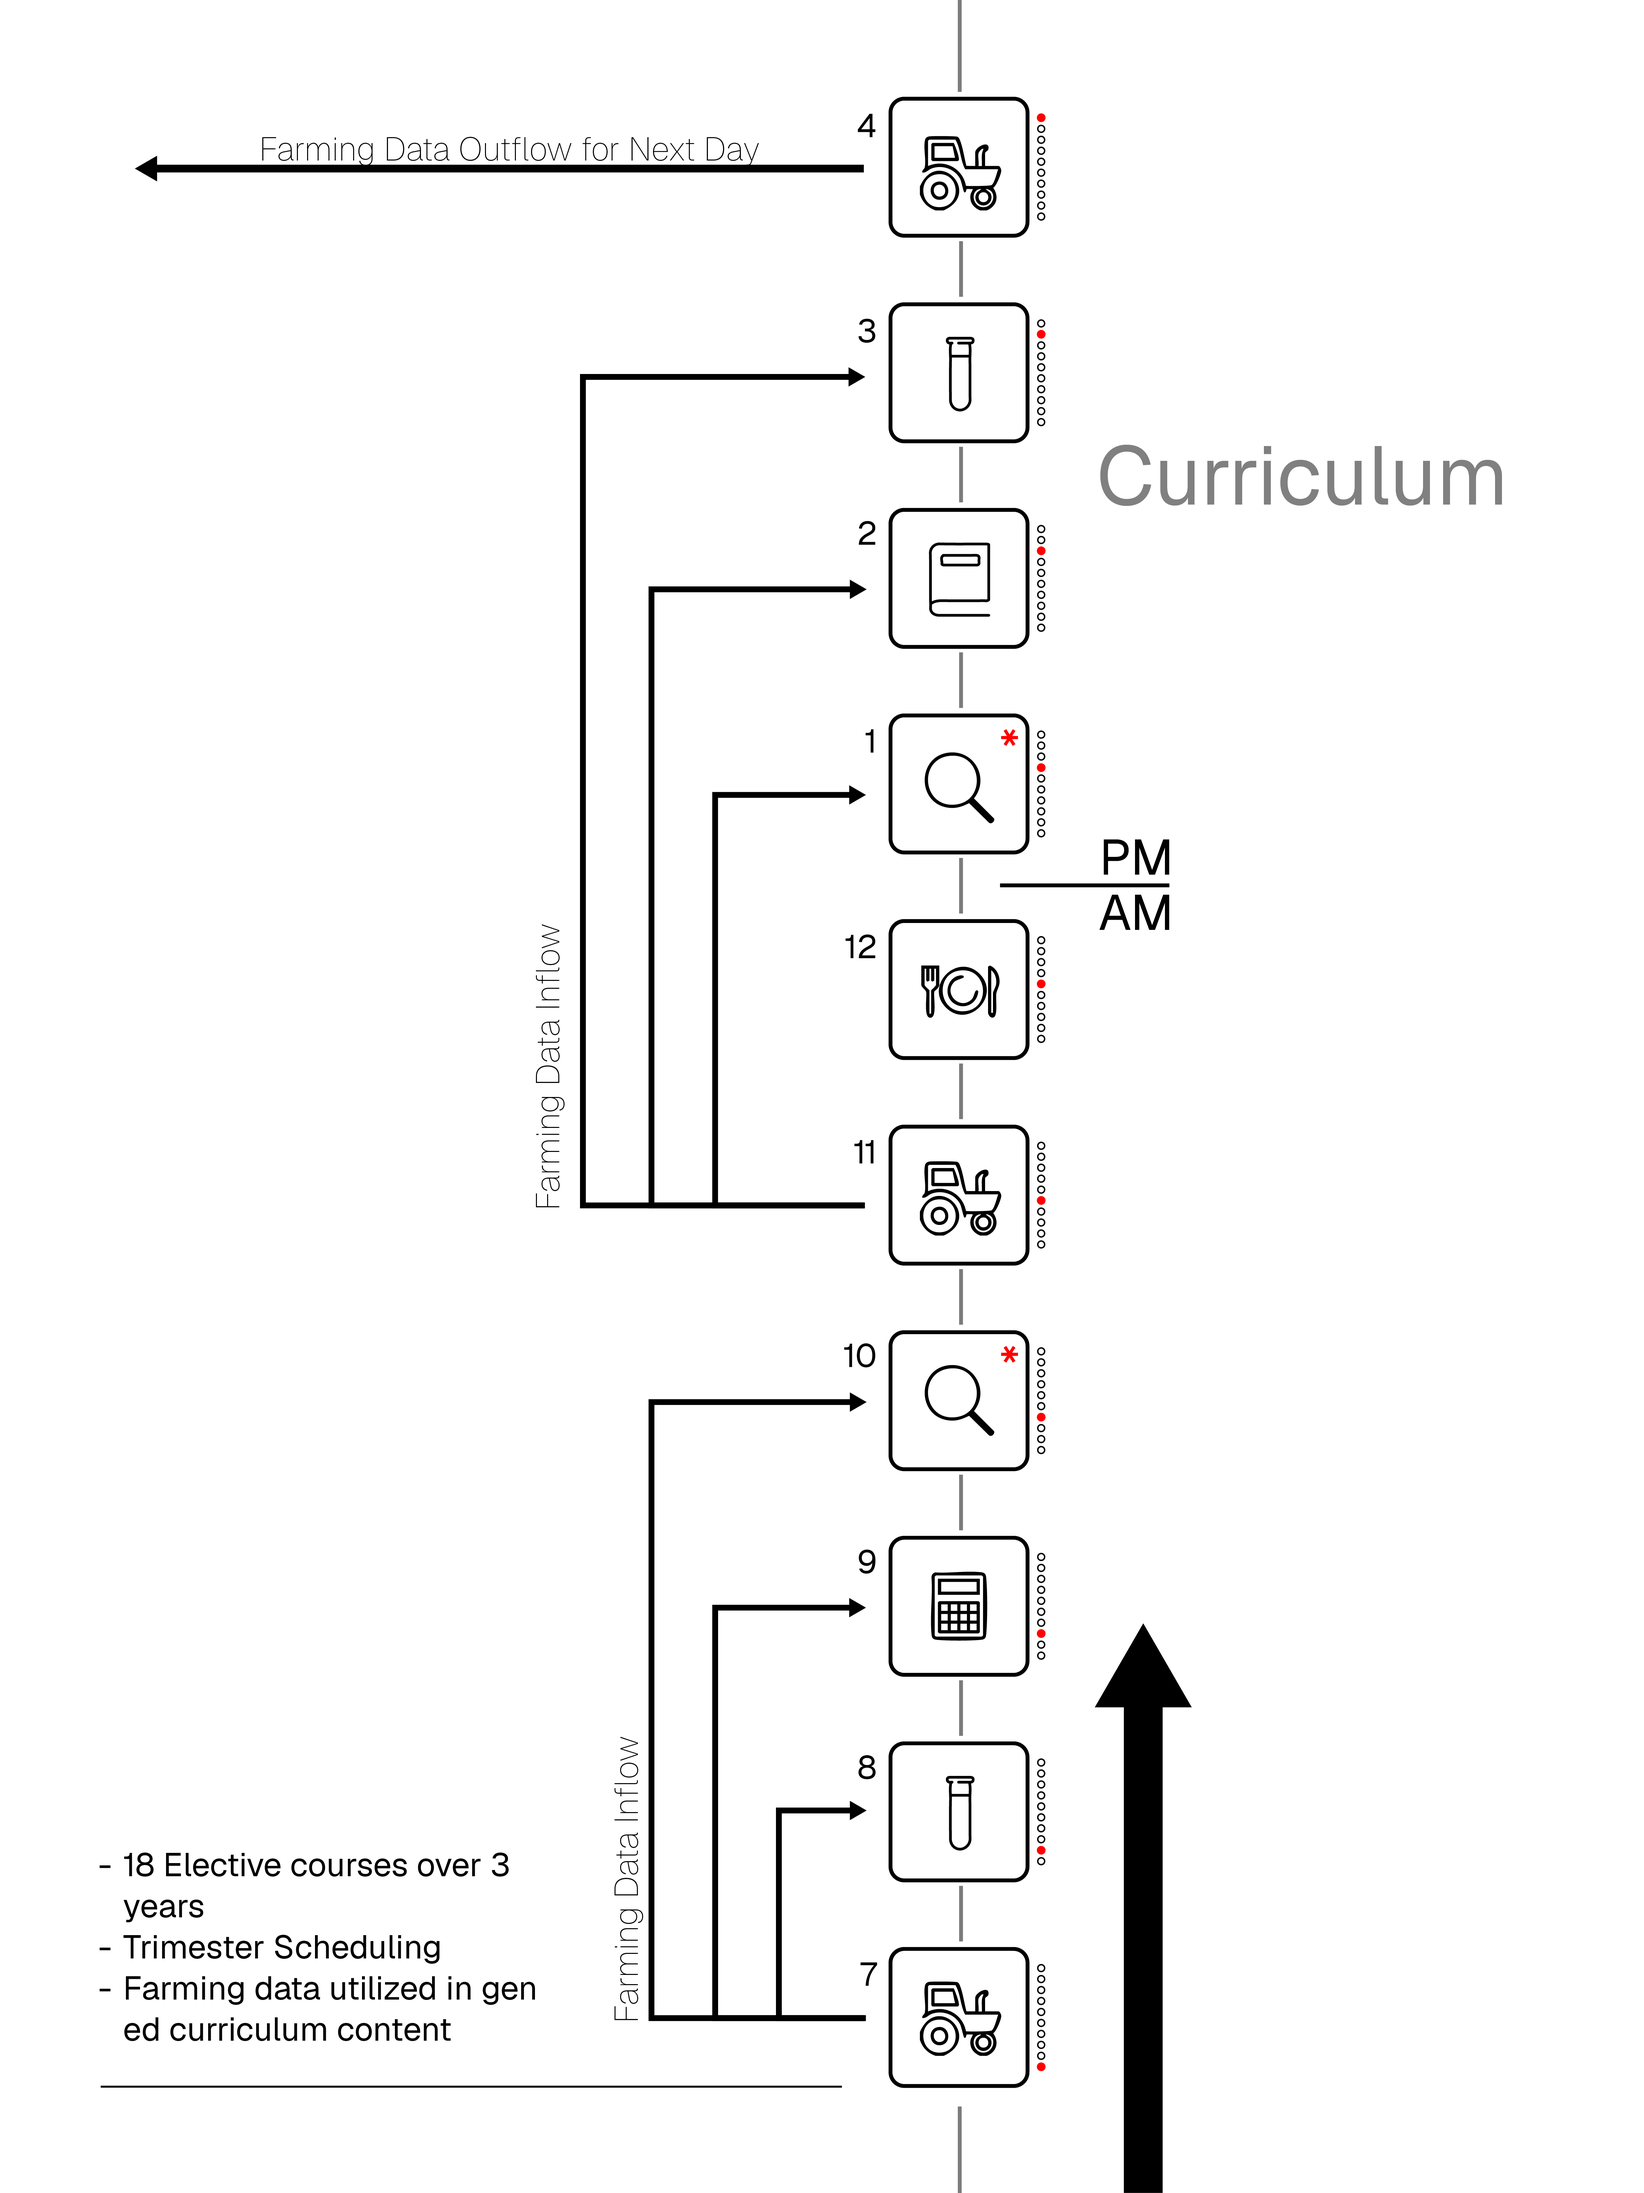
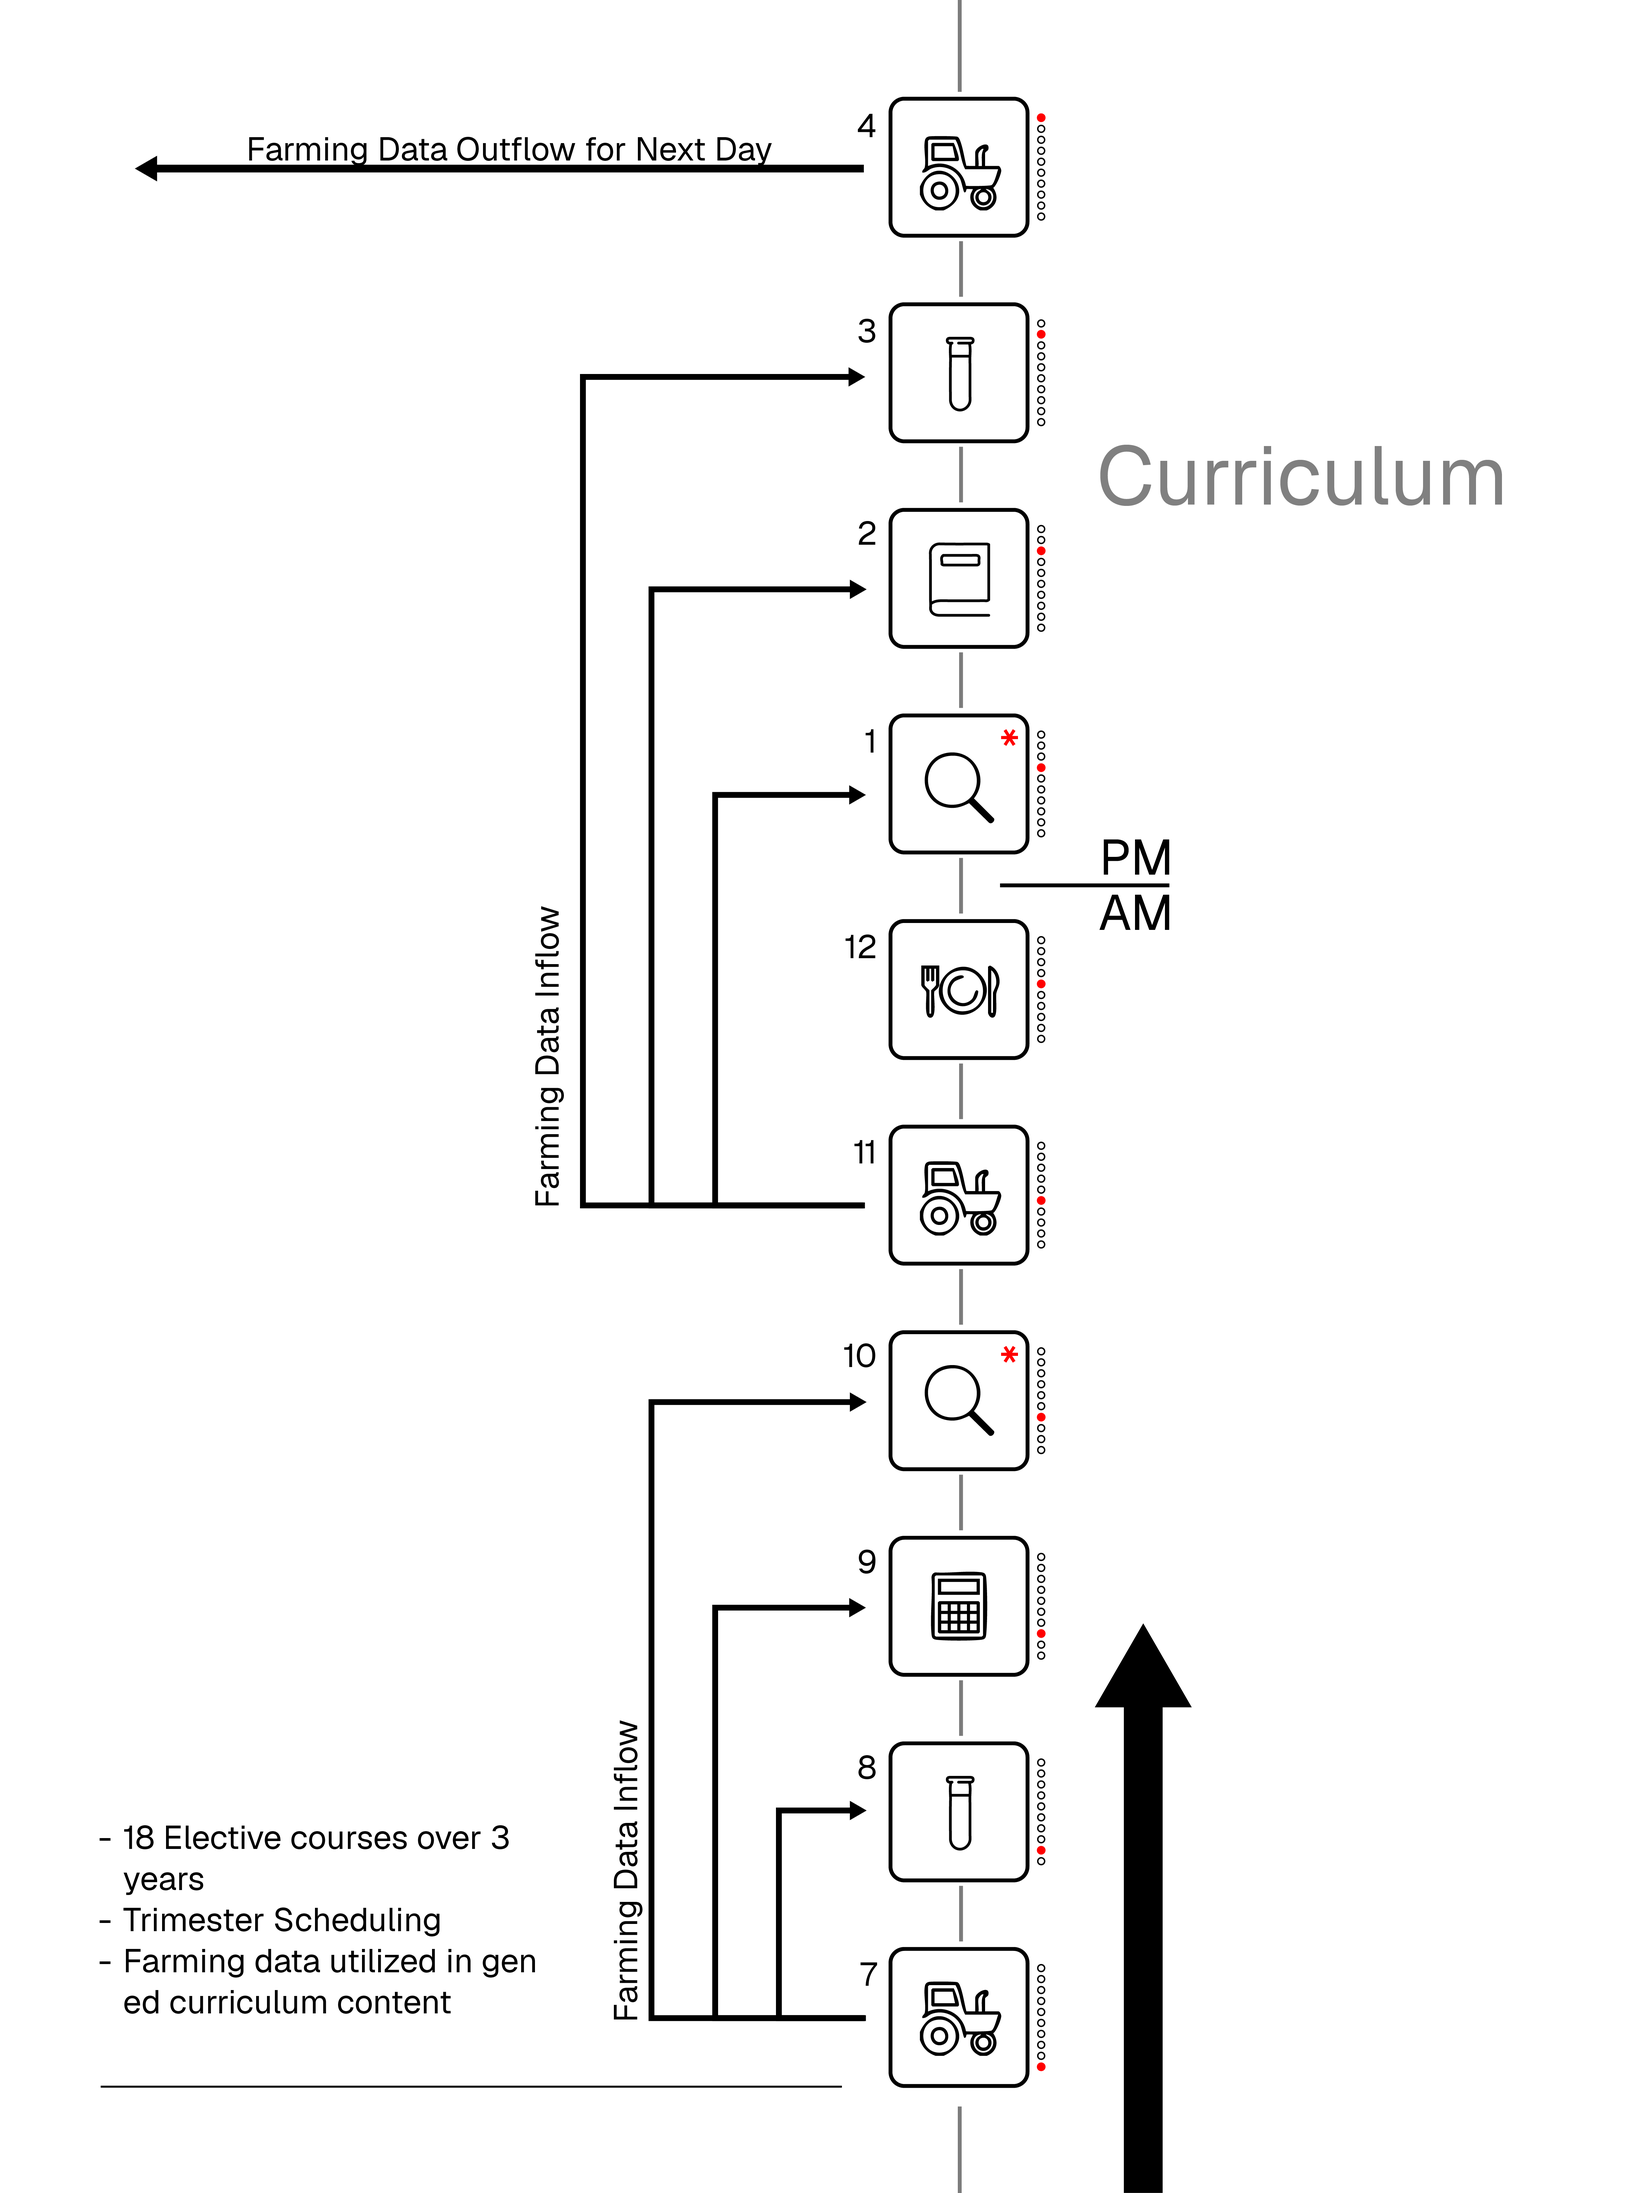
Photos and Layout Changes

diff --git a/projects/paper-as-functional-objects.html b/projects/paper-as-functional-objects.html
@@ -71,7 +71,6 @@
   <main>
     <div class="slider">
       <div class="slide-container">
-        <div class="slideEmpty" aria-hidden="true"></div>
         <div class="slideTitle">
           <h2>Paper Objects</h2>
           <h3d>This ongoing reseach project is investigating the viability of paper as a spatial material and visual aesthetic.</h3d>
@@ -79,22 +78,26 @@
         <div class="slideEmpty" aria-hidden="true"></div>
         <div class="slide">
           <img src="../images/paper/Wall_Panel_1.png" alt="Acoustic Wall Panel" class="slideimg"/>
-          <pCaption>Acoustic Wall Panel</pCaption>
+          <pCaption>Anechoic Wall Panel</pCaption>
         </div>
         <div class="slideEmpty" aria-hidden="true"></div>
         <div class="slide">
           <img src="../images/paper/Paper_Cast.png" alt="Cast Paper Panel, Unfinished" class="slideimg"/>
-          <pCaption>Cast Paper Anechoic Modules_Rough 24" x 32" x 2 1/4"</pCaption>
+          <pCaption>Cast Paper Anechoic Modules_Rough 24" x 32" x 2.25"</pCaption>
         </div>
         <div class="slideEmpty" aria-hidden="true"></div>
         <div class="slide">
           <img src="../images/paper/Mould1.png" alt="Mould Diagram" class="slideimg"/>
-          <pCaption>2 Part Vacuum Mould_Diagram</pCaption>
+          <pCaption>Two Part Vacuum Mould_Diagram</pCaption>
         </div>
         <div class="slideEmpty" aria-hidden="true"></div>
         <div class="slide">
           <img src="../images/paper/MouldFoam.png" alt="Mould Closeup" class="slideimg"/>
           <pCaption>2 Part Vacuum Mould_Base Piece</pCaption>
+        </div>
+        <div class="slideEmpty" aria-hidden="true"></div>
+        <div class="slide">
+          <h3d><b>3D shape >1" -</b> A large hurdle with paper is it's inability to establish sufficient hydrogren bonds once the thickness approaches 1". Through my research and the development of specialized moulds, the following were the first successful results from those experiments.</h3d>
         </div>
         <div class="slideEmpty" aria-hidden="true"></div>
         <div class="slide">
@@ -115,6 +118,10 @@
         <div class="slide">
           <img src="../images/paper/Paper_Texture.png" alt="Paper Cube Texture" class="slideimg"/>
           <pCaption>Cast 3D Shapes_Texture</pCaption>
+        </div>
+        <div class="slideEmpty" aria-hidden="true"></div>
+        <div class="slide">
+          <h3d><b>Paper Panels -</b> Early experimentation involved tests in color, texture, forming, layering, compression, drying and heat. Early panels were done at small format 5.5" x 8.5" with anywhere from .25-1" in thickness. This culminated with a 1.5 x 3 foot panel to test as a proof of concept for structural stability.</h3d>
         </div>
         <div class="slideEmpty" aria-hidden="true"></div>
         <div class="slide">

diff --git a/projects/alta-sea-robotics.html b/projects/alta-sea-robotics.html
@@ -3,7 +3,7 @@
 <head>
   <meta charset="utf-8" />
   <meta name="viewport" content="width=device-width, initial-scale=1" />
-  <title>Brick Drone</title>
+  <title>Alta Sea Robotics</title>
   <link rel="stylesheet" href="../css/pages.css" />
   <link rel="stylesheet" href="../css/project.css" />
 </head>
@@ -71,20 +71,20 @@
   <main>
     <div class="slider">
       <div class="slide-container">
-        <div class="slideEmpty" aria-hidden="true"></div>
         <div class="slideTitle">
           <h2>Alta Sea Robotics</h2>
           <h3d>Coded architectural design for an automated robotics environment.</h3d>
         </div>
         <div class="slideEmpty" aria-hidden="true"></div>
         <div class="slide">
-          <img src="../images/alta/HeroShot.png" alt="Library_Section" class="slideimg" />
-          <pCaption>Exterior</pCaption>
+          <img src="../images/alta/alta_int.jpg" alt="Library_Section" class="slideimg" />
+          <pCaption>Interior_Conference Space</pCaption>
         </div>
         <div class="slideEmpty" aria-hidden="true"></div>
-        <section class="slide">
-          <h2>More content coming soon</h2>
-        </section>
+        <div class="slide">
+          <img src="../images/alta/alta_int.jpg" alt="Library_Section" class="slideimg" />
+          <pCaption>Interior_Conference Space</pCaption>
+        </div>
       </div>
     </div>
   </main>

diff --git a/projects/school-for-agriculture.html b/projects/school-for-agriculture.html
@@ -94,12 +94,17 @@
           <img src="../images/school-for-agriculture/CurriculumVertical.png" alt="Curriculum Diagram" class="slideimg" />
           <pCaption>Curriculum_Plan</pCaption>
         </div>
+        <div class="slideEmpty" aria-hidden="true"></div>
         <div class="slide">
-          
+          <img src="../images/school-for-agriculture/perspective_dormCROP.png" alt="Dorm House" class="slideimg" />
+          <pCaption>Dorm_Perspective</pCaption>
         </div>
+        <div class="slideEmpty" aria-hidden="true"></div>
         <div class="slide">
-          <h2>More coming soon</h2>
+          <img src="../images/school-for-agriculture/FloorPlan_dorm.png" alt="Curriculum Diagram" class="slideimg" />
+          <pCaption>Dorm_Floor Plan</pCaption>
         </div>
+        <div class="slideEmpty" aria-hidden="true"></div>
       </div>
     </div>
   </main>

diff --git a/projects/screen-house.html b/projects/screen-house.html
@@ -3,7 +3,7 @@
 <head>
   <meta charset="utf-8" />
   <meta name="viewport" content="width=device-width, initial-scale=1" />
-  <title>Paper Kettle</title>
+  <title>Aegis ADU</title>
   <link rel="stylesheet" href="../css/pages.css" />
   <link rel="stylesheet" href="../css/project.css" />
 </head>
@@ -71,7 +71,6 @@
   <main>
     <div class="slider">
       <div class="slide-container">
-        <div class="slideEmpty" aria-hidden="true"></div>
         <div class="slideTitle">
           <h2>Project Aegis ADU</h2>
           <h3d>An accessory dwelling unit designed as an extension of the building envelope, protecting inhabitants against digital threats.</h3d>

diff --git a/about.html b/about.html
@@ -70,8 +70,8 @@
     <div class="aboutDesktop">
     <img class="aboutDesktop-image" src="images/headshot.jpg" alt="Portrait" />
     <div class="aboutDesktop-text">
-      <h2>Alexander Rosno</h2>
-      <p>Intentional design that respects human beings in the past, present and future.</p>
+      <h2>About</h2>
+      <p>Alex Rosno is a designer based in Los Angeles. His work centers around intentional design responses that benefit people down to the individual scale. </p>
     </div>  
   </div>
   <div class="about">

diff --git a/projects/polyopoly.html b/projects/polyopoly.html
@@ -71,7 +71,6 @@
   <main>
     <div class="slider">
       <div class="slide-container">
-        <div class="slideEmpty" aria-hidden="true"></div>
         <div class="slideTitle">
           <h2>Polyopoly</h2>
           <h3d>A skyscraper designed for the everyday citizen to inhabit, turning the horizontal format of a neighborhood into a vertical structure.</h3d>

diff --git a/projects/photography.html b/projects/photography.html
@@ -72,7 +72,7 @@
     <div class="slider">
       <div class="slide-container">
         <div class="slideTitle">
-          <h2>Photography Selected Works</h2>
+          <h2>Photography</h2>
           <h3d>
             A catalog of experimental photography that studies
             light, material and space.
